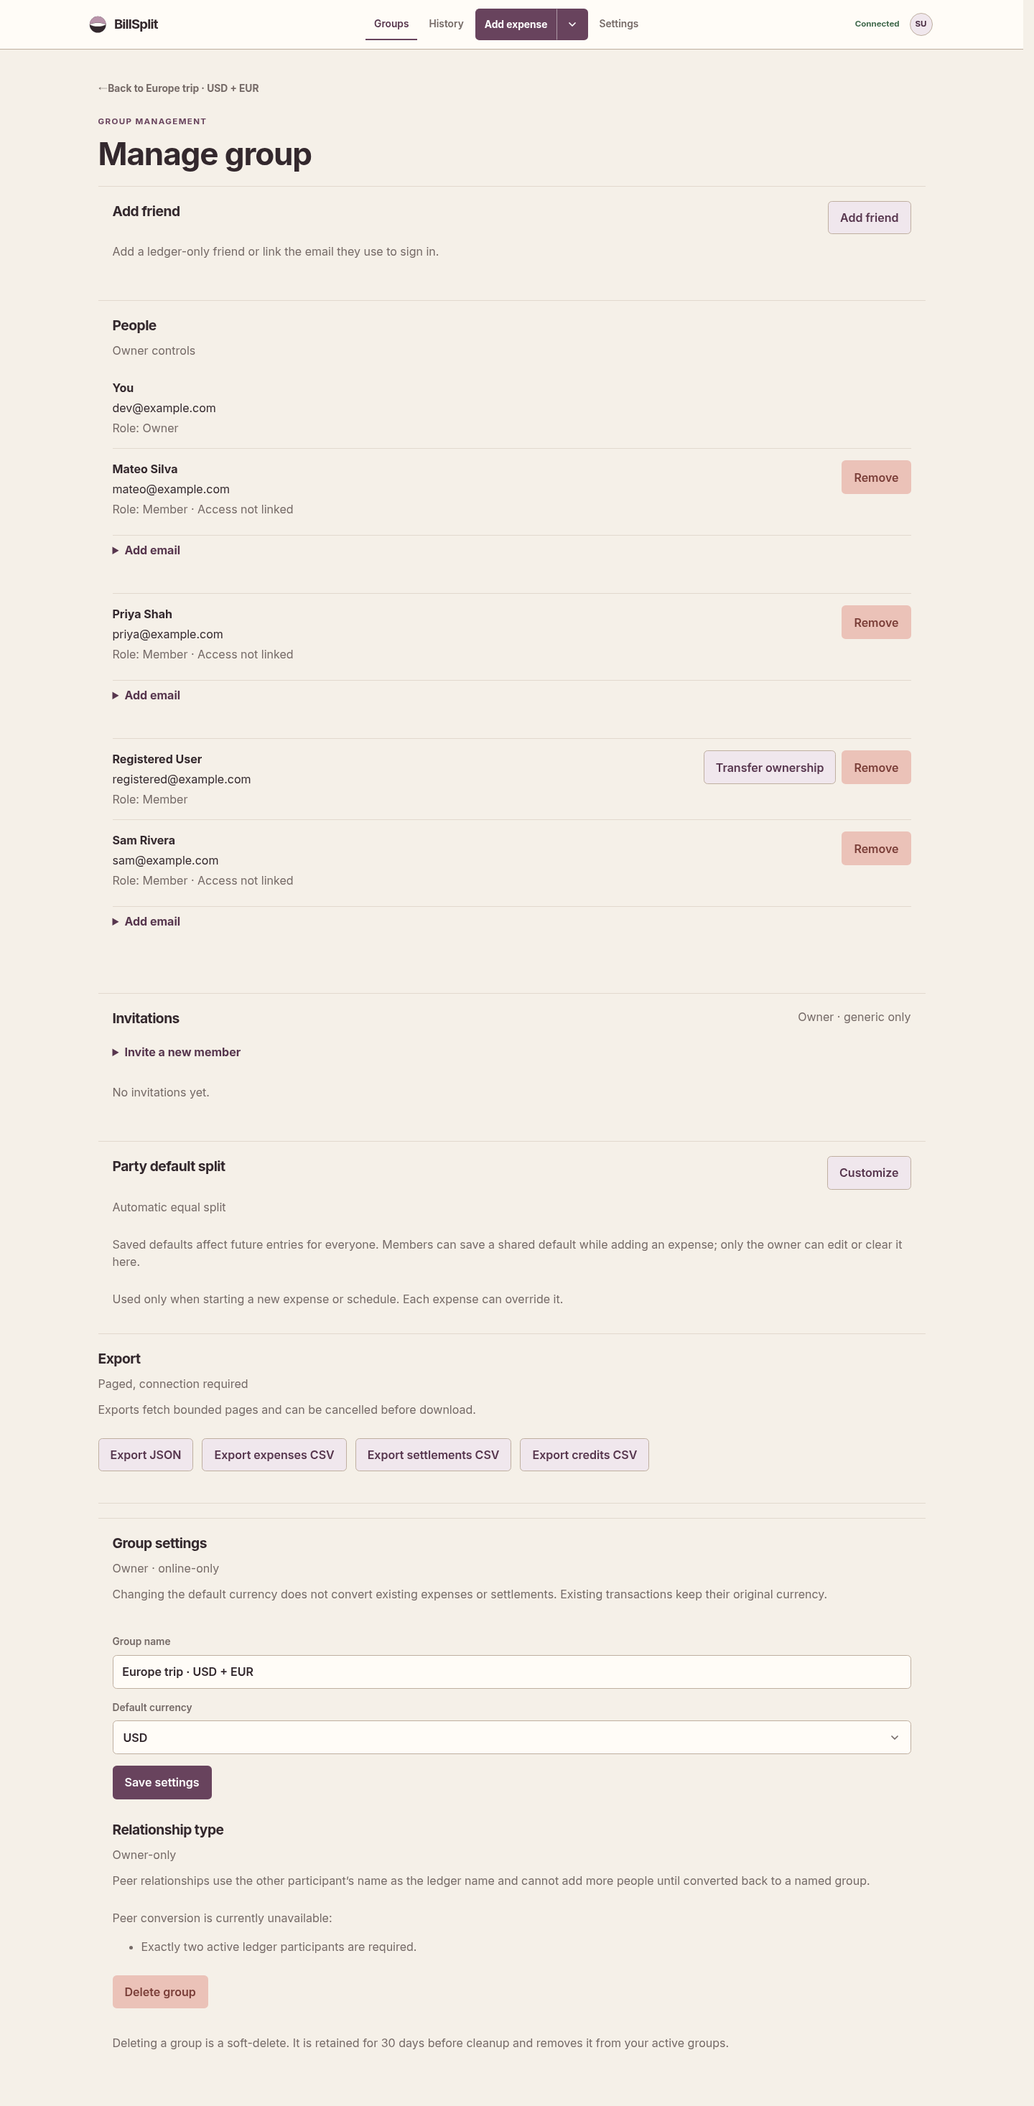
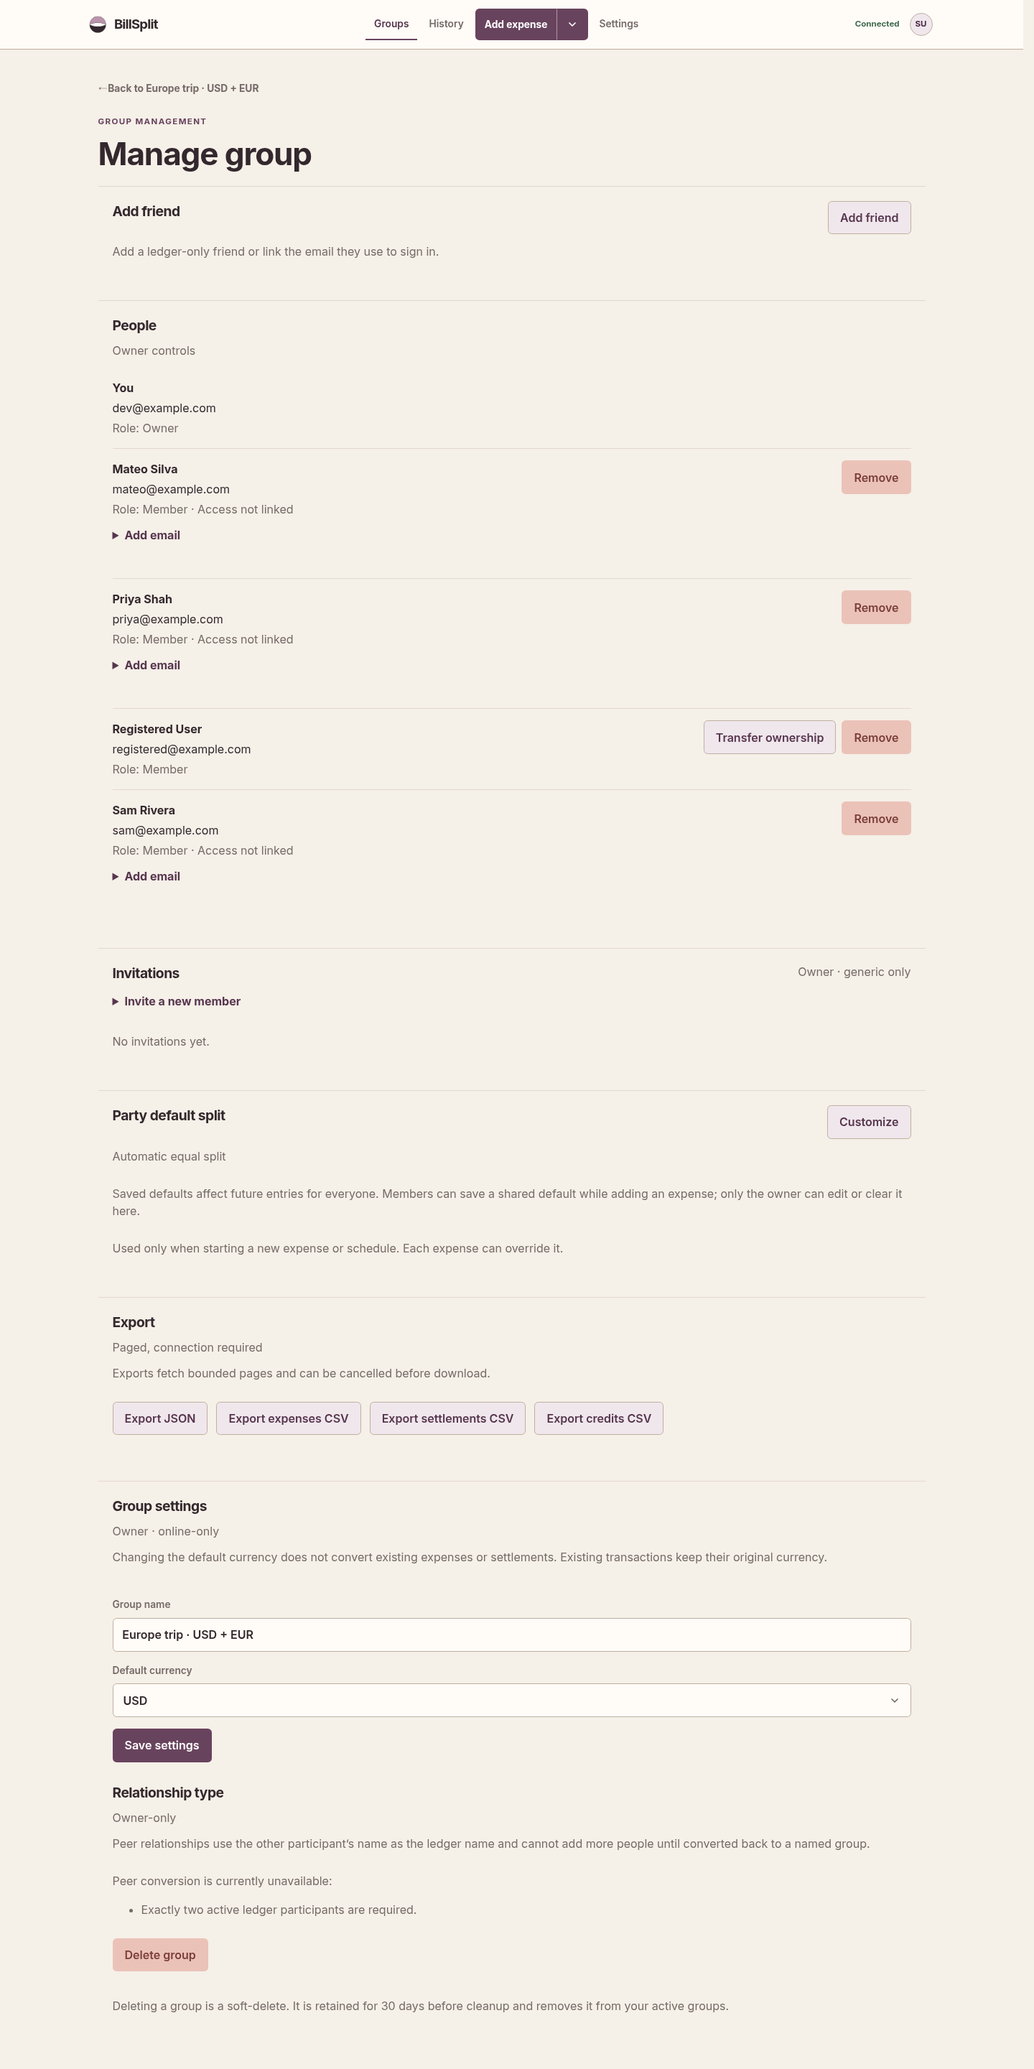
Normalize management section spacing

diff --git a/tests/e2e/production-findings.spec.ts b/tests/e2e/production-findings.spec.ts
@@ -412,6 +412,128 @@ test('contains the open targeted email form across responsive member-row widths'
   }
 });
 
+test('keeps member grid slots, action spacing, and management dividers stable at narrow widths', async ({ authenticatedPage: page }) => {
+  for (const viewport of [{ width: 320, height: 844 }, { width: 390, height: 844 }]) {
+    await page.setViewportSize(viewport);
+    await page.goto(`/groups/${GROUP_ID}/manage`);
+    await expect(page.getByRole('list', { name: 'Group members' })).toBeVisible();
+
+    const geometry = await page.locator('.management-sections').evaluate((management) => {
+      const rowFor = (name: string) => [...management.querySelectorAll<HTMLElement>('.member-row')].find((row) => row.textContent?.includes(name));
+      const inspectRow = (row: HTMLElement | undefined) => {
+        if (!row) return undefined;
+        const rowBox = row.getBoundingClientRect();
+        const visible = (element: Element) => {
+          const style = getComputedStyle(element);
+          const box = element.getBoundingClientRect();
+          return style.display !== 'none' && style.visibility !== 'hidden' && box.width > 0 && box.height > 0;
+        };
+        const descendants = [row, ...[...row.querySelectorAll('*')].filter(visible)];
+        const controls = [...row.querySelectorAll<HTMLElement>('button, input, summary')].filter(visible);
+        const overlaps = controls.flatMap((first, firstIndex) => controls.slice(firstIndex + 1).filter((second) => {
+          const a = first.getBoundingClientRect();
+          const b = second.getBoundingClientRect();
+          return Math.min(a.right, b.right) > Math.max(a.left, b.left) && Math.min(a.bottom, b.bottom) > Math.max(a.top, b.top);
+        }).map((second) => `${first.tagName}:${second.tagName}`));
+        return {
+          bounds: { left: rowBox.left, right: rowBox.right, top: rowBox.top, bottom: rowBox.bottom },
+          overflow: descendants.map((element) => element.getBoundingClientRect()).filter((box) => box.left < rowBox.left - 1 || box.right > rowBox.right + 1 || box.top < rowBox.top - 1 || box.bottom > rowBox.bottom + 1).length,
+          controls: controls.map((element) => ({ height: element.getBoundingClientRect().height, left: element.getBoundingClientRect().left, right: element.getBoundingClientRect().right })),
+          overlaps,
+          action: row.querySelector<HTMLElement>('.member-row__actions')?.getBoundingClientRect(),
+          emailStyle: (() => { const element = row.querySelector<HTMLElement>('.member-email-control'); const style = element && getComputedStyle(element); return style ? { marginTop: style.marginTop, paddingTop: style.paddingTop, borderTopWidth: style.borderTopWidth } : undefined; })(),
+        };
+      };
+      const settings = management.querySelector<HTMLElement>('#settings');
+      const settingsTop = settings?.getBoundingClientRect().top || 0;
+      const dividerCount = settings ? [...management.querySelectorAll<HTMLElement>('*')].filter((element) => {
+        const box = element.getBoundingClientRect();
+        const style = getComputedStyle(element);
+        return Math.abs(box.top - settingsTop) < 0.5 && style.borderTopWidth === '1px' && style.borderTopStyle !== 'none';
+      }).length : 0;
+      const exportSection = management.querySelector<HTMLElement>('.export-controls');
+      const settingsBody = settings?.querySelector<HTMLElement>(':scope > .group-settings');
+      return {
+        documentWidth: Math.max(document.documentElement.scrollWidth, document.body.scrollWidth),
+        viewport: window.innerWidth,
+        owner: inspectRow(rowFor('You')),
+        unlinked: inspectRow(rowFor('Sam Rivera')),
+        linked: inspectRow(rowFor('Registered User')),
+        actionGap: [...new Set([...management.querySelectorAll<HTMLElement>('.member-row__actions')].map((element) => getComputedStyle(element).gap))],
+        dividerCount,
+        exportBorder: exportSection ? getComputedStyle(exportSection).borderTopWidth : '',
+        settingsBorder: settings ? getComputedStyle(settings).borderTopWidth : '',
+        settingsBodyBorder: settingsBody ? getComputedStyle(settingsBody).borderTopWidth : '',
+      };
+    });
+
+    const detail = JSON.stringify({ viewport, geometry });
+    expect(geometry.documentWidth, detail).toBeLessThanOrEqual(viewport.width + 1);
+    for (const variant of [geometry.owner, geometry.unlinked, geometry.linked]) {
+      expect(variant, detail).toBeDefined();
+      expect(variant!.overflow, detail).toBe(0);
+      expect(variant!.overlaps, detail).toEqual([]);
+      for (const control of variant!.controls) {
+        expect(control.height, detail).toBeGreaterThanOrEqual(44);
+        expect(control.left, detail).toBeGreaterThanOrEqual(0);
+        expect(control.right, detail).toBeLessThanOrEqual(viewport.width + 1);
+      }
+    }
+    expect(geometry.actionGap, detail).toEqual(['8px']);
+    expect(geometry.unlinked!.action!.left, detail).toBe(geometry.linked!.action!.left);
+    expect(geometry.unlinked!.emailStyle, detail).toEqual({ marginTop: '0px', paddingTop: '0px', borderTopWidth: '0px' });
+    expect(geometry.dividerCount, detail).toBe(1);
+    expect(geometry.exportBorder, detail).toBe('1px');
+    expect(geometry.settingsBorder, detail).toBe('1px');
+    expect(geometry.settingsBodyBorder, detail).toBe('0px');
+  }
+});
+
+test('contains pending invitation controls in the same member grid slot at 320 and 390', async ({ browser }) => {
+  const context = await newAuthenticatedContext(browser, DEV_EMAIL);
+  const page = await context.newPage();
+  const invitation = { id: 'targeted-pending-geometry', groupId: GROUP_ID, email: 'mateo-login@example.com', createdBy: 'owner', createdAt: '2026-01-01T00:00:00.000Z', expiresAt: '2099-01-01T00:00:00.000Z', targetPersonId: '00000000-0000-4000-8000-000000002005' };
+  await page.route(`${BASE_URL}/api/groups/${GROUP_ID}/invitations**`, (route) => route.fulfill({ status: 200, contentType: 'application/json', body: JSON.stringify({ invitations: [invitation] }) }));
+  try {
+    for (const viewport of [{ width: 320, height: 844 }, { width: 390, height: 844 }]) {
+      await page.setViewportSize(viewport);
+      await page.goto(`/groups/${GROUP_ID}/manage`);
+      const mateo = page.getByRole('list', { name: 'Group members' }).getByRole('listitem').filter({ hasText: 'Mateo Silva' });
+      await expect(mateo).toContainText('Pending invitation for mateo-login@example.com');
+      await expect(mateo.getByRole('button', { name: 'Change' })).toBeVisible();
+      await expect(mateo.getByRole('button', { name: 'Revoke' })).toBeVisible();
+      const geometry = await mateo.evaluate((row) => {
+        const controls = [...row.querySelectorAll<HTMLElement>('button')].map((element) => {
+          const box = element.getBoundingClientRect();
+          return { height: box.height, left: box.left, right: box.right };
+        });
+        const elements = [row, ...[...row.querySelectorAll('*')]];
+        const rowBox = row.getBoundingClientRect();
+        return {
+          documentWidth: Math.max(document.documentElement.scrollWidth, document.body.scrollWidth),
+          rowBox: { left: rowBox.left, right: rowBox.right },
+          overflow: elements.map((element) => element.getBoundingClientRect()).filter((box) => box.left < rowBox.left - 1 || box.right > rowBox.right + 1).length,
+          controls,
+          actionGap: getComputedStyle(row.querySelector<HTMLElement>('.member-row__actions')!).gap,
+          emailGap: getComputedStyle(row.querySelector<HTMLElement>('.member-email-control__pending-actions')!).gap,
+        };
+      });
+      const detail = JSON.stringify({ viewport, geometry });
+      expect(geometry.documentWidth, detail).toBeLessThanOrEqual(viewport.width + 1);
+      expect(geometry.overflow, detail).toBe(0);
+      expect(geometry.actionGap, detail).toBe('8px');
+      expect(geometry.emailGap, detail).toBe('8px');
+      for (const control of geometry.controls) {
+        expect(control.height, detail).toBeGreaterThanOrEqual(44);
+        expect(control.left, detail).toBeGreaterThanOrEqual(0);
+        expect(control.right, detail).toBeLessThanOrEqual(viewport.width + 1);
+      }
+    }
+  } finally {
+    await context.close();
+  }
+});
+
 test('validates and submits the friend creation form with its consent-safe payload', async ({ authenticatedPage: page }) => {
   let responseStatus = 409;
   let requestBody: unknown;

diff --git a/src/app/App.tsx b/src/app/App.tsx
@@ -337,7 +337,7 @@ function MemberDirectory({ groupId, userId, members, currentPersonId, online, ow
   };
   const invitations = invitationsResource?.data?.invitations;
   return <>
-    <ul className="member-list" aria-label="Group members">{members.map((member) => <li className="member-row" key={member.personId}>
+    <ul className="member-list" aria-label="Group members">{members.map((member) => <li className={`member-row${(!owner || member.role === 'owner') ? ' member-row--identity-only' : ''}${owner && member.role === 'member' && !member.linked ? ' member-row--with-email-control' : ''}`} key={member.personId}>
        <div className="member-row__identity"><strong>{member.personId === currentPersonId ? 'You' : member.name}</strong>{member.email ? <span className="email">{member.email}</span> : <span className="muted">No email linked</span>}<span className="muted">Role: {member.role === 'owner' ? 'Owner' : 'Member'}{member.linked ? '' : invitations?.some((candidate) => candidate.targetPersonId === member.personId && isPendingInvitation(candidate)) ? ' · Invitation pending' : ' · Access not linked'}</span></div>
       {owner && member.role === 'member' && !member.linked ? invitationsResource?.data !== undefined ? <TargetedInvitationControl groupId={groupId} userId={userId} member={member} invitation={invitations?.find((candidate) => candidate.targetPersonId === member.personId)} online={online} mutationState={targetedMutationState || 'checking'} /> : <InvitationAvailabilityStatus resource={invitationsResource} /> : null}
        {owner && member.role !== 'owner' ? <div className="member-row__actions" aria-label={`Actions for ${member.name}`}>{member.linked ? <Button type="button" variant="secondary" disabled={!online || Boolean(busy)} onClick={() => void transfer(member)}>Transfer ownership</Button> : null}<Button type="button" variant="danger" disabled={!online || Boolean(busy)} onClick={() => void remove(member)}>Remove</Button></div> : null}
@@ -484,7 +484,7 @@ type GroupManagementLayoutProps = Pick<GroupManagementContentProps, 'group' | 'g
 
 function GroupManagementLayout({ group, groupId, userId, online, offline, groupResource, children, activeMemberCount, pendingGenericInvitation, conversionBusy, onConversionBusyChange, onDeleted, onLeft }: GroupManagementLayoutProps) {
   const owner = group.role === 'owner';
-  return <Layout><Link className="back" to={`/groups/${groupId}`}>← <span className="back__label">Back to {groupDisplayName(group)}</span></Link><PageHeader className="page-title" eyebrow="Group management" title="Manage group" />{offline ? <ConnectionBanner detail="cached group data is available. Member changes, invitations, exports, and settings require a connection." /> : null}<ResourceNotice resource={groupResource} label="group" retry={retryFor(resourceKeys.group(userId, groupId), userId)} /><div className="management-sections">{children}</div><GroupExports groupId={groupId} online={online && !offline} /><div id="settings" className="group-management-settings" data-flow-region="admin" tabIndex={-1}><GroupSettings group={group} groupId={groupId} userId={userId} online={online && !offline} role={owner ? 'owner' : 'member'} activeMemberCount={activeMemberCount} pendingGenericInvitation={pendingGenericInvitation} conversionBusy={conversionBusy} onConversionBusyChange={onConversionBusyChange} onDeleted={onDeleted} onLeft={onLeft} /></div></Layout>;
+  return <Layout><Link className="back" to={`/groups/${groupId}`}>← <span className="back__label">Back to {groupDisplayName(group)}</span></Link><PageHeader className="page-title" eyebrow="Group management" title="Manage group" />{offline ? <ConnectionBanner detail="cached group data is available. Member changes, invitations, exports, and settings require a connection." /> : null}<ResourceNotice resource={groupResource} label="group" retry={retryFor(resourceKeys.group(userId, groupId), userId)} /><div className="management-sections">{children}<GroupExports groupId={groupId} online={online && !offline} /><div id="settings" className="group-management-settings" data-flow-region="admin" tabIndex={-1}><GroupSettings group={group} groupId={groupId} userId={userId} online={online && !offline} role={owner ? 'owner' : 'member'} activeMemberCount={activeMemberCount} pendingGenericInvitation={pendingGenericInvitation} conversionBusy={conversionBusy} onConversionBusyChange={onConversionBusyChange} onDeleted={onDeleted} onLeft={onLeft} /></div></div></Layout>;
 }
 
 function PeopleSection({ groupId, userId, members, currentPersonId, online, owner, invitationsResource, targetedMutationState }: { groupId: string; userId: string; members: GroupMember[]; currentPersonId: string | null; online: boolean; owner: boolean; invitationsResource?: ResourceSnapshot<{ invitations: GroupInvitation[] }>; targetedMutationState?: TargetedInvitationMutationState }) {

diff --git a/src/app/theme/group-management.css b/src/app/theme/group-management.css
@@ -7,22 +7,34 @@
 }
 
 .member-row {
-  display: flex;
+  display: grid;
+  grid-template-columns: minmax(0, 1fr);
+  grid-template-areas:
+    "identity"
+    "actions";
   min-width: 0;
-  align-items: flex-start;
-  justify-content: space-between;
-  flex-wrap: wrap;
-  gap: var(--space-4);
+  gap: var(--flow-content);
   border-bottom: 1px solid var(--color-divider);
   padding: var(--space-4) 0;
 }
 
 .member-row:last-child { border-bottom: 0; }
 
+.member-row--with-email-control {
+  grid-template-areas:
+    "identity"
+    "email"
+    "actions";
+}
+
+.member-row--identity-only {
+  grid-template-areas: "identity";
+}
+
 .member-row__identity {
   display: grid;
   min-width: 0;
-  order: 1;
+  grid-area: identity;
   gap: var(--space-1);
 }
 
@@ -33,10 +45,10 @@
 .member-row__actions {
   display: flex;
   min-width: 0;
-  order: 2;
-  flex: 0 0 auto;
+  align-items: flex-start;
+  grid-area: actions;
   flex-wrap: wrap;
-  justify-content: flex-end;
+  justify-content: flex-start;
   gap: var(--space-2);
 }
 
@@ -45,14 +57,10 @@
 }
 
 .member-email-control {
+  grid-area: email;
   width: 100%;
-  flex: 1 1 100%;
-  order: 3;
   display: grid;
   gap: var(--space-2);
-  margin-top: var(--space-2);
-  padding-top: var(--space-2);
-  border-top: 1px solid var(--color-divider);
 }
 
 .member-email-control,
@@ -128,10 +136,6 @@
 .member-email-control .error,
 .generic-invitation-disclosure .error {
   margin: 0;
-}
-
-.invitations-panel > .generic-invitation-disclosure {
-  margin-top: var(--space-2);
 }
 
 .invitations-panel > .management-section__header,
@@ -223,8 +227,7 @@
   min-width: 0;
 }
 
-.management-sections > *,
-.group-settings {
+.management-sections > * {
   display: grid;
   gap: var(--flow-content);
   border-top: 1px solid var(--color-divider);
@@ -242,25 +245,14 @@
   min-width: 0;
 }
 
-.export-controls {
-  display: grid;
-  gap: var(--flow-content);
-  border-top: 1px solid var(--color-divider);
-  background: transparent;
-  padding: var(--space-5) 0;
-}
-
 .route-view--group-management > .ui-page-header,
 .route-view--settings > .ui-page-header {
   margin-bottom: var(--space-5);
 }
 
-
-.group-management-settings {
+.group-settings {
   display: grid;
   gap: var(--flow-content);
-  border-top: 1px solid var(--color-divider);
-  padding-top: var(--space-5);
 }
 
 .invitations-panel,

diff --git a/src/app/theme/responsive.css b/src/app/theme/responsive.css
@@ -258,16 +258,6 @@
     align-self: flex-start;
   }
 
-  .member-row {
-    flex-direction: column;
-    gap: var(--space-2);
-  }
-
-  .member-row__actions {
-    order: 3;
-    justify-content: flex-start;
-  }
-
   .allocation-row {
     grid-template-columns: minmax(0, 1fr);
     grid-template-areas:
@@ -278,11 +268,6 @@
 
   .allocation-row > input {
     width: 100%;
-  }
-
-  .member-email-control {
-    flex: 0 1 auto;
-    order: 2;
   }
 
   .member-email-control form {
@@ -315,6 +300,24 @@
 
   .empty-state__actions .button {
     width: 100%;
+  }
+}
+
+@media (min-width: 30.001rem) {
+  .member-row {
+    grid-template-columns: minmax(0, 1fr) auto;
+    grid-template-areas: "identity actions";
+  }
+
+  .member-row--with-email-control {
+    grid-template-areas:
+      "identity actions"
+      "email actions";
+  }
+
+  .member-row--identity-only {
+    grid-template-columns: minmax(0, 1fr);
+    grid-template-areas: "identity";
   }
 }
 
@@ -354,8 +357,7 @@
     grid-template-columns: repeat(2, minmax(0, 1fr));
   }
 
-.management-sections > *,
-  .group-settings {
+  .management-sections > * {
     padding: var(--surface-padding-wide);
   }
 }

diff --git a/docs/responsive-audit-matrix.md b/docs/responsive-audit-matrix.md
@@ -96,7 +96,7 @@ captures are distinct group-overview, refund-form, and focused-helper states.
 | Group overview / secondary actions | More group actions is collapsed after people; quiet links remain discoverable | Disclosure keeps insights, credit, history, and settings below primary content | Verify no large tools surface competes with the four modules | Verify summary target and link rows remain at least 44px | Actions stay below both structural columns | Secondary actions remain progressively disclosed and visually quiet |
 | Expense and schedule forms | Amount hero, split controls, and payer sheet fit without zoom | Payer sheet is bottom anchored and targets remain 44px | Verify form grouping and recurring preview | Verify 895/896 transition without focus loss | Payer dialog is centered; amount remains first | Payer dialog and schedule preview remain readable |
 | History and insights | Segmented tabs remain single-line with touch-safe links and contained horizontal overflow when needed; filter disclosure stays in flow; transaction/activity results use divider-separated ledger rows; history and insight outer containers remain flat | Same no-wrap tab treatment; transaction amounts align at row end without painted list containers | Chart/table fallback remains accessible; semantic insight sections remain structural | Verify boundary tab, search behavior, and no painted history/insights ancestor | Desktop rows align like a ledger; filters remain in flow; summary/chart modules are the intentional painted surfaces | Desktop rows align like a ledger; filters remain in flow; summary/chart modules are the intentional painted surfaces |
-| Management/settings | Editorial sections remain single-column; deletion is last and is the only tinted contained region | People/invitations/defaults precede exports and destructive actions; member rows remain flat ledger rows | Verify long names and disabled states | Verify boundary spacing and justified form/admin containment | Compact editorial sections preserve hierarchy without stacked cards | Compact editorial sections preserve hierarchy without stacked cards |
+| Management/settings | Editorial sections remain single-column; deletion is last and is the only tinted contained region; owner, unlinked, and linked member slots fit without overflow | People/invitations/defaults precede exports and destructive actions; member rows keep identity → optional email/invitation → actions order, with one shared action gap | Verify long names and disabled states | Verify boundary spacing and justified form/admin containment | Compact editorial sections preserve hierarchy without stacked cards; Export → Group settings has one stack-owned divider | Compact editorial sections preserve hierarchy without stacked cards |
 | Friend/group creation | Focused form surface is one column; add/remove people and cancel remain reachable | Inputs stay at least 16px and action targets stay 44px | Participant rows wrap without reordering | Verify the 895/896 transition does not move submit before fields | Reading-width form stays focused while navigation changes | Long names and invitation copy remain readable |
 | Expense edit/schedule edit | Amount, payer, split, recurrence, and submit follow DOM order; payer disclosure stays usable | Recurrence preview and allocation fields do not require horizontal scrolling | Payer controls and weekday choices wrap as groups | Verify focus and dirty/conflict recovery across the desktop boundary | Form surface remains constrained and submit is primary | Schedule metadata and conflict recovery remain adjacent to the form |
 | Settlement create/detail and tombstones | Balance rows precede the online-only form; deleted records expose restore only | Amount and from/to controls remain touch-safe | Long participant names wrap in ledger rows | Verify cached balance and connection states remain explicit | Detail actions remain after the accounting summary | History and restore affordances remain secondary to money flow |
